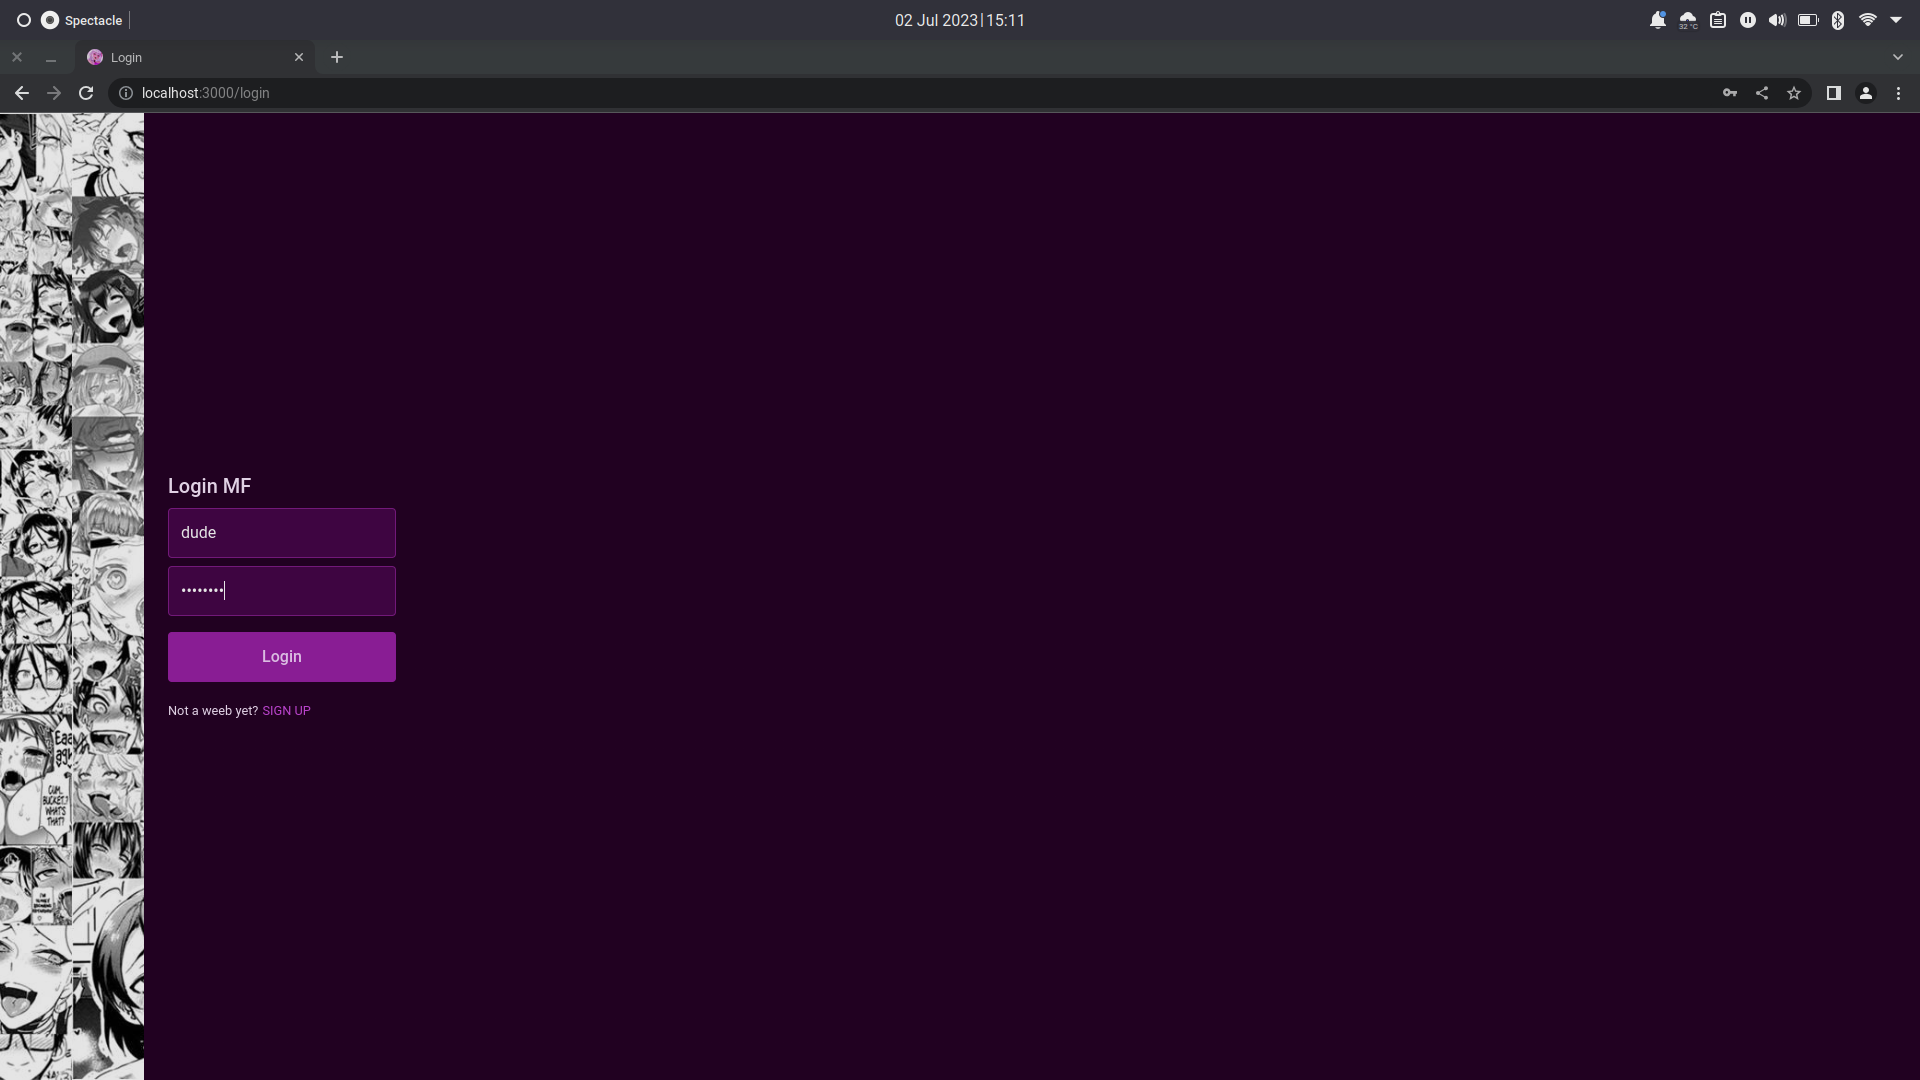
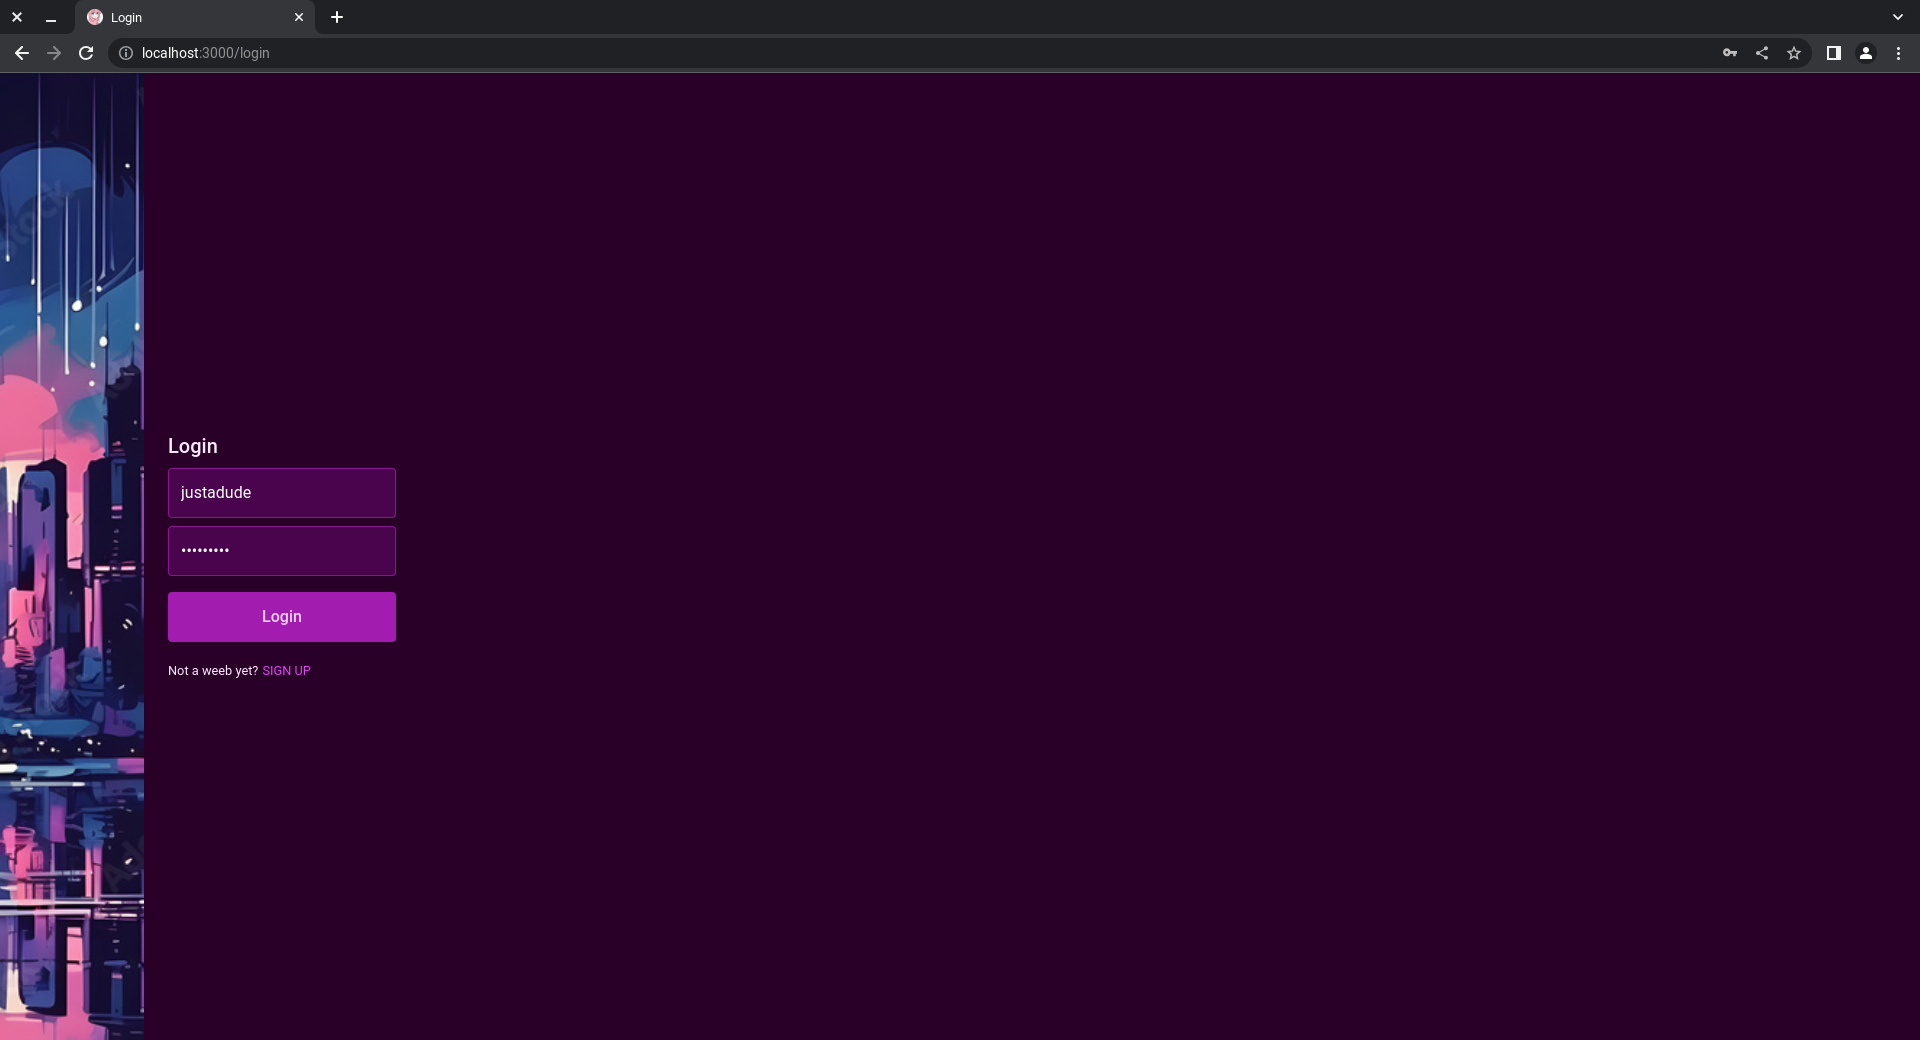
images and readme changes

Changed region(s): [[0.0, 0.0, 1.0, 1.0]]

diff --git a/client/src/pages/index.tsx b/client/src/pages/index.tsx
@@ -5,6 +5,7 @@ import Link from 'next/link'
 import { useEffect, useState } from 'react'
 import useSWRInfinite from "swr/infinite";
 
+import icon_small from "../../public/icons/icon_small.png"
 import { Post, Sub } from '@/types'
 import PostCard from '@/components/PostCard'
 import { useAuthState } from '@/context/auth'
@@ -94,8 +95,8 @@ export default function Home() {
                                         <div className="mr-2 overflow-hidden rounded-full">
                                             <Link href={`/r/${sub.name}`}>
                                                 <Image
-                                                    src="/icons/icon_small.png"
-                                                    alt="/icons/icon_big.png"
+                                                    src={icon_small}
+                                                    alt="icon"
                                                     width={6 * 16 / 4}
                                                     height={6 * 16 / 4}
                                                 />

diff --git a/client/src/pages/r/[sub].tsx b/client/src/pages/r/[sub].tsx
@@ -4,6 +4,7 @@ import { Fragment } from "react";
 import useSWR from 'swr'
 import Image from "next/image";
 
+import icon_small from "../../../public/icons/icon_small.png"
 import PostCard from "@/components/PostCard";
 import Sidebar from "@/components/Sidebar";
 import { Post, Sub } from "@/types";
@@ -49,8 +50,8 @@ export default function SubPage() {
                             <div className="container relative flex">
                                 <div className="absolute" style={{ top: -15 }}>
                                     <Image
-                                        src="/icons/icon_small.png"
-                                        alt="/icons/icon_big.png"
+                                        src={icon_small}
+                                        alt="icon"
                                         className="rounded-full"
                                         width={70}
                                         height={70}

diff --git a/client/src/pages/r/[sub]/[identifier]/[slug].tsx b/client/src/pages/r/[sub]/[identifier]/[slug].tsx
@@ -8,7 +8,7 @@ import useSWR, { mutate } from 'swr'
 import { FormEvent, useState } from "react";
 import axios from "axios";
 
-
+import icon_small from "../../../../../public/icons/icon_small.png"
 import Sidebar from "@/components/Sidebar";
 import { Post, Comment } from "@/types";
 import { useAuthState } from "@/context/auth";
@@ -55,8 +55,8 @@ export default function PostPage() {
                             {post && (
                                 <div className="mr-2">
                                     <Image
-                                        src="/icons/icon_small.png"
-                                        alt="/icons/icon_big.png"
+                                        src={icon_small}
+                                        alt="icon"
                                         className="rounded-full"
                                         width={70}
                                         height={70}

diff --git a/client/src/pages/login.tsx b/client/src/pages/login.tsx
@@ -30,7 +30,7 @@ export default function Register() {
             if(dispatch)
                 dispatch({ type: 'LOGIN', payload: res.data })
 
-            router.back()
+            router.push('/')
         } catch (error: any) {
             setErrors(error.response.data)
         }
@@ -52,7 +52,7 @@ export default function Register() {
             <div className="flex flex-col justify-center pl-6">
                 <div>
                     <h1 className="mb-2 text-xl font-medium text-fuchsia-100">
-                        Login MF
+                        Login
                     </h1>
                     <form onSubmit={submitForm}>
                         <InputGroup

diff --git a/client/src/pages/register.tsx b/client/src/pages/register.tsx
@@ -55,7 +55,7 @@ export default function Register() {
             <div className="flex flex-col justify-center pl-6">
                 <div>
                     <h1 className="mb-2 text-xl font-medium text-fuchsia-100">
-                        Sign Up MF
+                        Sign Up
                     </h1>
                     <p className="w-64 mb-10 text-xs text-fuchsia-100">
                         By continuing you agree to sell your life and never touch grass ever again

diff --git a/README.md b/README.md
@@ -34,19 +34,23 @@
 ![Home page](screenshots/homepage.png)
 
 ### Create subWeebit Page:
-![Create subWeebit Page](screenshots/create%20subweebit.png)
+![Create subWeebit Page](screenshots/create_subweebit.png)
 
 ### Create Post page:
 ![Create Post page](screenshots/create_post_page.png)
 
 ### Post Page:
-![Post Page](screenshots/post_paeg_comments.png)
+![Post Page](screenshots/post_page_comments.png)
 
 ### SubWeebit Page:
-![SubWeebit Page](screenshots/subweenbit_page_empty.png)
+![SubWeebit Page](screenshots/subweebit_page.png)
 
 ### User Page:
 ![User Page](screenshots/userpage.png)
 
 ## Acknowledgements:
 * [Classed](https://www.youtube.com/@Classsed) for YouTube tutorial on how to make the website
+* [Adobe Stock Image](/client/public/images/background.jpg)
+
+
+***The [icon](/client/public/icons/icon_big.png) used is made by me***
